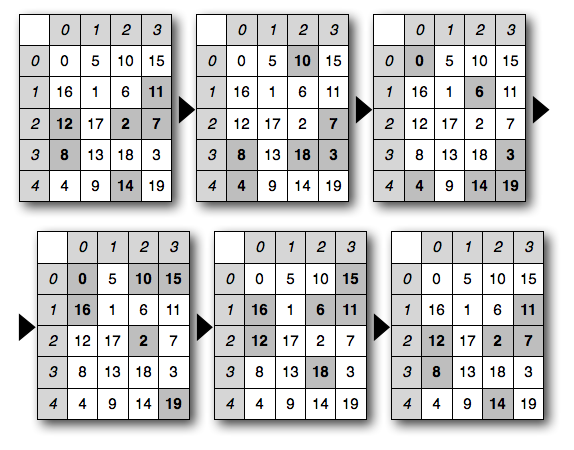
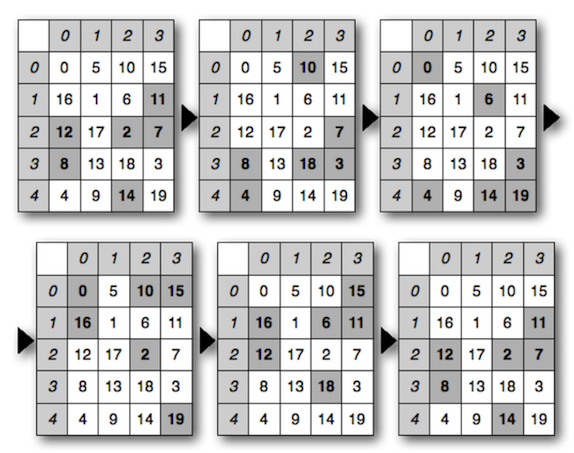
version 1.20.5
+ kreuzspiel-permutation

diff --git a/README.md b/README.md
@@ -2,12 +2,12 @@
 
 Cycle generator
 
-This library generates cycle from a numeric sequence especially for the musical purpose, like some composers have used in their respective compositions (see Olivier Messiaen with its symmetrical permutations, also Gérard Grisey or Jean Barraqué, and Iannis Xenakis for its _cribles rythmiques_). 
+This library generates cycle from a numeric sequence especially for the musical purpose, like some composers have used in their respective compositions (see Olivier Messiaen with its symmetrical permutations, also Gérard Grisey or Jean Barraqué, and Iannis Xenakis for its _cribles rythmiques_).
 This library extends this principle with mathematical algorithms, simply to explore this research field in a musical context.
 
 > Briefly, this is some prospecting tools that fit in a heuristic perspective, intended to serve as a musical discourse, according to the theme of _cyclicity_.
-Thus, it is possible to consider the construction of musical representations of mathematical ideas, recognizing that musical experience can not be reduced to a symbolic system. 
-In other words, it must be possible to report an association between network composition, performance and listening ... 
+Thus, it is possible to consider the construction of musical representations of mathematical ideas, recognizing that musical experience can not be reduced to a symbolic system.
+In other words, it must be possible to report an association between network composition, performance and listening ...
 
 
 The result of each algorithm is a list including the cycle itself prepended by its _path_ if it exists.
@@ -19,7 +19,7 @@ The result of each algorithm is a list including the cycle itself prepended by i
 `[ KAPREKAR-CONSTANT ]`
 
 The Kaprekar's algorithm consists to associate any number __x__ to another number __K(x)__ generated as follow:
- 
+
 - According to the digits of __x__ in radix __n__, one forms the number __x1__ by ranking in increasing order these digits and the number __x2__ by ranking in decreasing order.
 
 - Then __K(x) = x2 - x1__.
@@ -49,7 +49,7 @@ Primarily developed by John Conway, the pea pattern is a variation of a _look-an
 1. Mathematical overview
 >[http://math.univ-lyon1.fr/capes/IMG/pdf/cycles.pdf](http://math.univ-lyon1.fr/capes/IMG/pdf/cycles.pdf)
 
-2. Musical application 
+2. Musical application
 >[http://www.entretemps.asso.fr/Nicolas/TextesNic/Barraque.html](http://www.entretemps.asso.fr/Nicolas/TextesNic/Barraque.html)
 
 - - - -
@@ -61,6 +61,14 @@ Highlighted by Olivier Messiaen, symmetric permutations constitute a system of n
 ![](img/img1.png)
 
 The order of durations (on a gray background) is switched according to the procedure of a given list (on a white background) which is re-ordered at each step.
+
+- - - -
+
+`[ KREUZSPIEL-PERMUTATION ]`
+
+>[https://digital.lib.washington.edu/researchworks/handle/1773/23571](https://digital.lib.washington.edu/researchworks/handle/1773/23571)
+
+In 1951, Karlheinz Stockhausen wrotes _Kreuzspiel_ (***Jeux croisés***) which uses the crossing technique inspired by Olivier Messiaen called ***des extrêmes au centre*** as a kind of ***retrogradation en éventail***. This consists to take the first and the last values of a sequence and places them in the middle (or optionally at a given indexed place) by opposite crossing.
 
 - - - -
 
